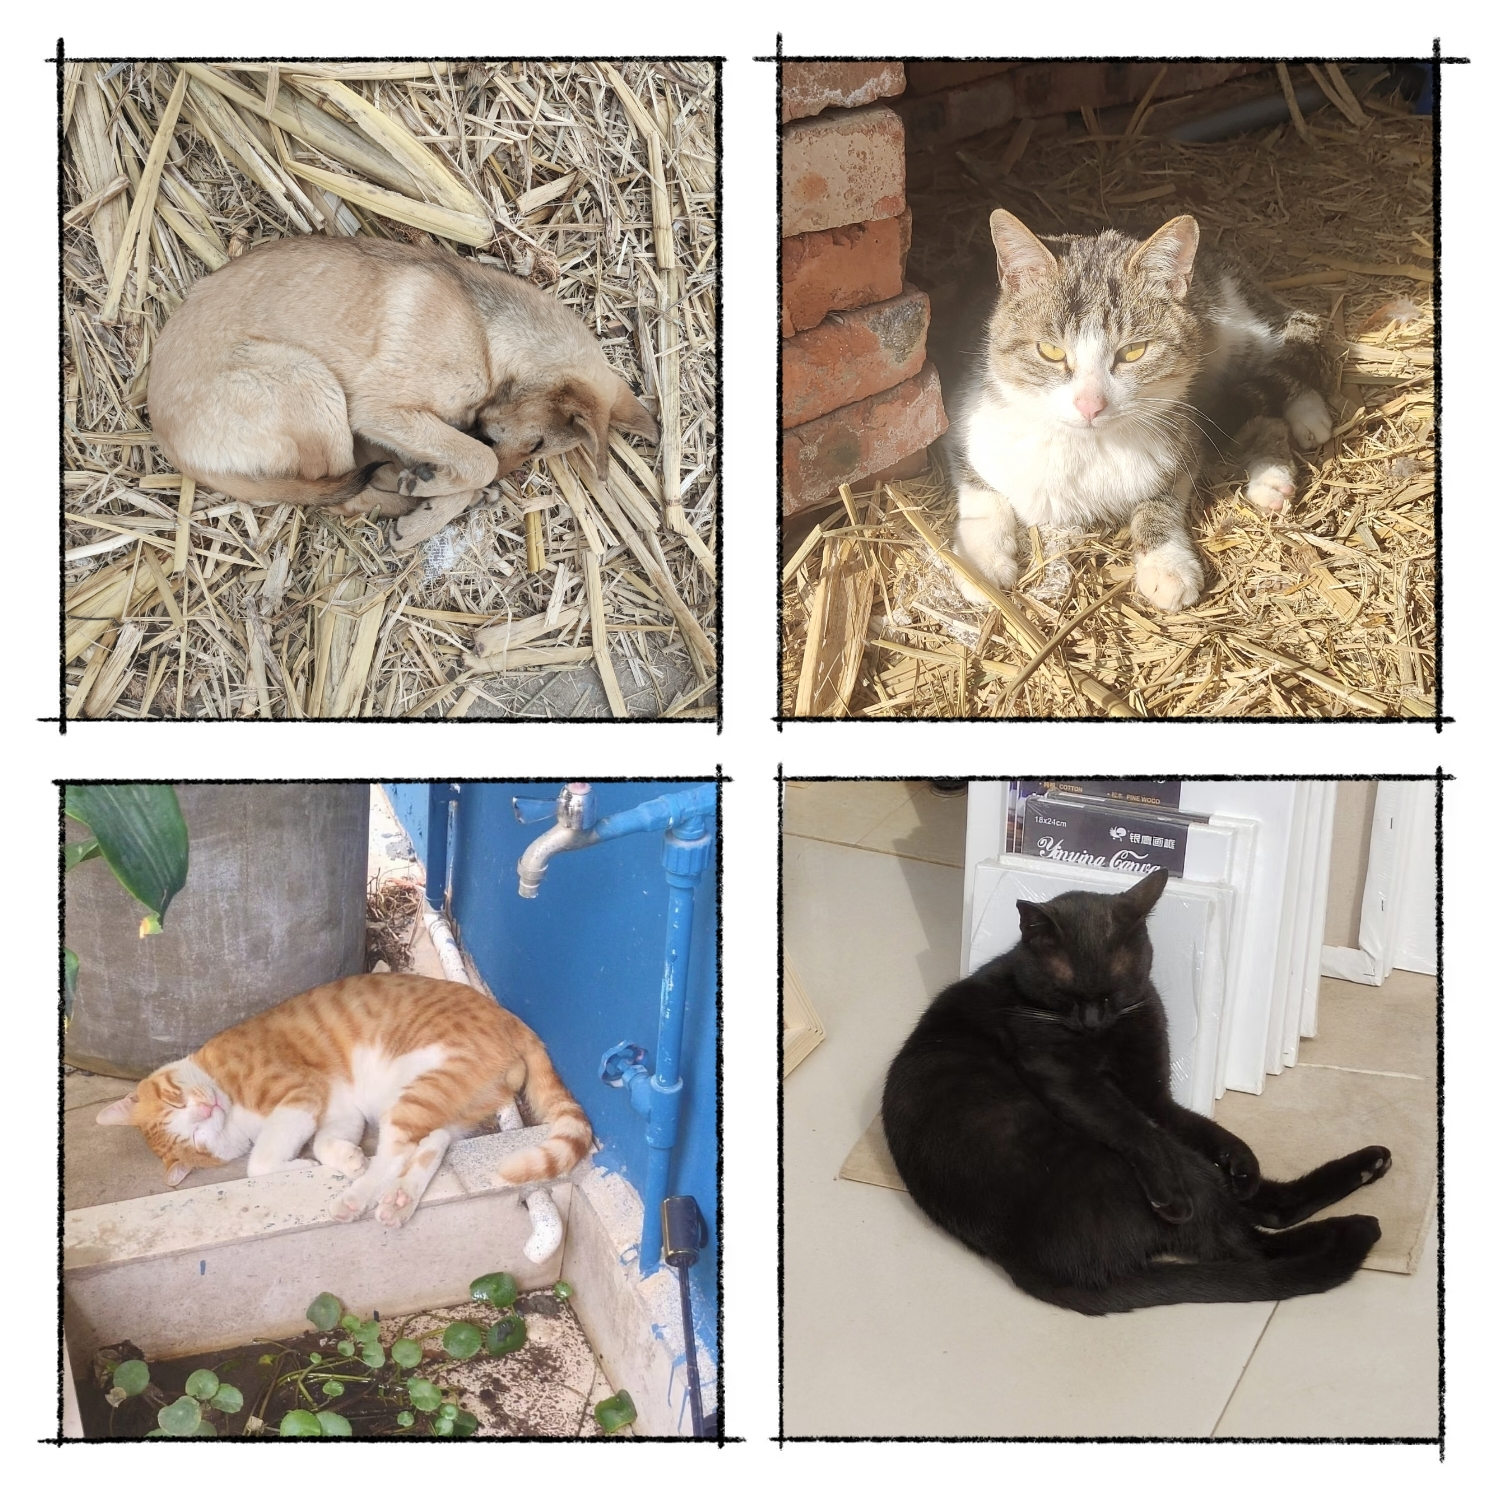
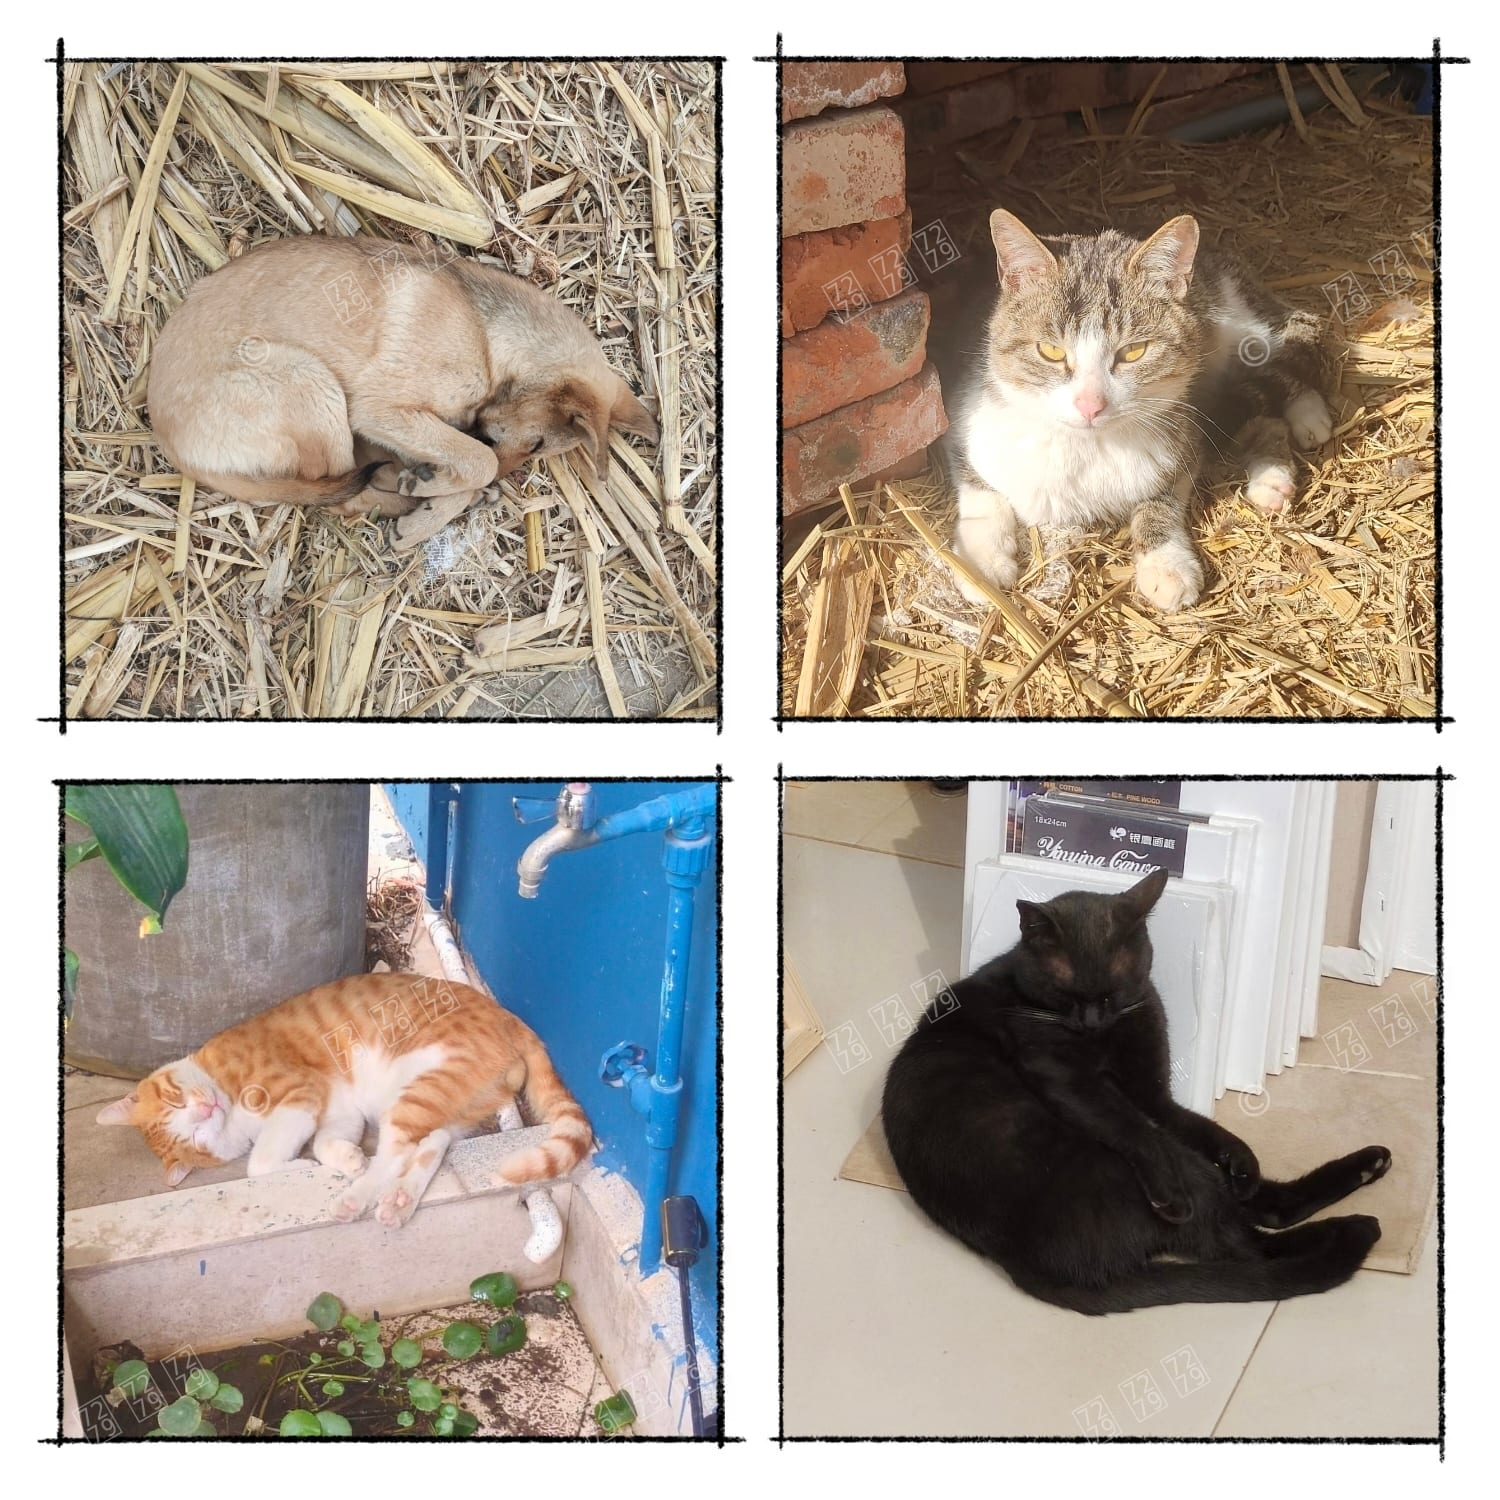
feat: 新增6张摄影作品 (2023-2026)
- photo-01《某个不重要的下午》2026
- photo-02《光落在不该落的地方》2025
- photo-03《傍晚的第七种安静》2025
- photo-04《没有主角的房间》2025
- photo-05《那一秒还在》2024
- photo-06《路过的人没抬头》2023
- 统一文件名小写 .jpg
- 压缩加水印 (总体积 38MB → 1.6MB)

diff --git a/src/content/content.config.ts b/src/content/content.config.ts
@@ -150,37 +150,43 @@ export const siteContent: SiteContent = {
     {
       id: "photo-01",
       src: "/works/photo-01.jpg",
-      title: "地铁站口的橘猫",
-      medium: "胶片摄影 35mm · Portra 400",
-      year: 2024,
-      note: "它在等一个永远不来的人，我也是。",
+      title: "某个不重要的下午",
+      year: 2026,
       category: "photography",
     },
     {
       id: "photo-02",
       src: "/works/photo-02.jpg",
-      title: "外婆家的下午三点",
-      medium: "胶片摄影 120 · Ektar 100",
-      year: 2023,
-      note: "光从竹帘缝隙里漏下来，落在搪瓷杯上。",
+      title: "光落在不该落的地方",
+      year: 2025,
       category: "photography",
     },
     {
       id: "photo-03",
       src: "/works/photo-03.jpg",
-      title: "夜班便利店",
-      medium: "胶片摄影 35mm · Cinestill 800T",
-      year: 2024,
-      note: "凌晨三点，整个城市只剩这里还醒着。",
+      title: "傍晚的第七种安静",
+      year: 2025,
       category: "photography",
     },
     {
       id: "photo-04",
       src: "/works/photo-04.jpg",
-      title: "海边的废弃旅馆",
-      medium: "胶片摄影 35mm · Gold 200",
+      title: "没有主角的房间",
+      year: 2025,
+      category: "photography",
+    },
+    {
+      id: "photo-05",
+      src: "/works/photo-05.jpg",
+      title: "那一秒还在",
+      year: 2024,
+      category: "photography",
+    },
+    {
+      id: "photo-06",
+      src: "/works/photo-06.jpg",
+      title: "路过的人没抬头",
       year: 2023,
-      note: "墙上还贴着十年前的房价单。",
       category: "photography",
     },
   ],